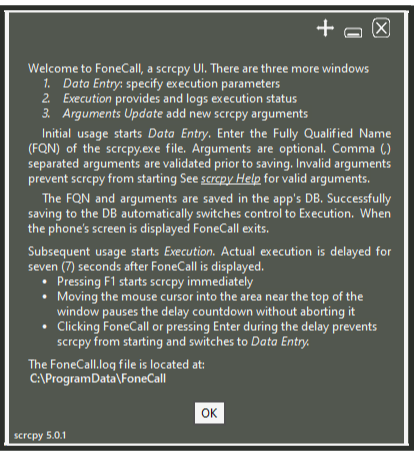
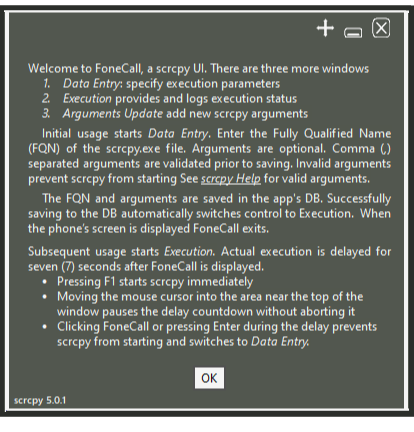
'nother tweak

diff --git a/README.md b/README.md
@@ -16,7 +16,7 @@ The tool directly resolves common Windows shortcut limitations:
 
 ## Core Features & Interface Windows
 
-FoneCall wraps your entire screen-mirroring workflow into a streamlined graphical workflow. It provides a clean graphical user interface to launch scrcpy with execution arguments directly from your Start Menu or Taskbar while hiding the background command window. During execution, FoneCall dislays an logs scrcpy startup status.
+FoneCall wraps your entire screen-mirroring workflow into a streamlined graphical workflow. It provides a clean graphical user interface to launch scrcpy with execution arguments directly from your Start Menu or Taskbar while hiding the background command window. During execution, FoneCall displays and logs scrcpy startup status.
 
 The tool is designed to be intuitive and user-friendly, making it easy for users to configure and launch scrcpy without needing to interact with command-line interfaces. When your phone's screen is displayed on your computer, FoneCall automatically exits, leaving only the mirrored phone screen visible and active.
 
@@ -29,12 +29,12 @@ Data Entry captures execution parameters which are saved in an embedded SQLite d
 ![Data Entry captures execution parameters which are saved in an embedded SQLite DB. The scrcpy.exe file location is verified and Arguments are validated prior to saving.](/assets/images/DataEntry.png)
 
 ### zcrcpy Execution Window
-Execution starts scrcpy and provides & logs execution status. In the initial launch of FoneCall after installation Execution is triggered by successfully saving the execution parameters to the DB. In subsequent launches Execution is the initial window if valid execution parameters are in the DB.  If the parameters are missing or invalid, the user is returned to the Data Entry window to correct the issue.
+Execution starts scrcpy and displays & logs execution status. In the initial launch of FoneCall after installation Execution is triggered by successfully saving the execution parameters to the DB. In subsequent launches Execution is the initial window if valid execution parameters are in the DB.  If the parameters are missing or invalid, the user is returned to the *`Data Entry`* window to correct the issue.
 
 There is a seven second delay between the launch of FoneCall and the start of scrcpy. During the delay, the user can:
-*   start  scrcpy immediately by pressing the F1 key.
-*   pause the countdown by moving the  mouse cursor near the top of the FoneCall window.
-*   cancel the execution and switch to *`Data Entry`* by clicking FoneCall or pressing the Enter key.
+*   start  scrcpy immediately
+*   pause the countdown
+*   cancel the execution and switch to *`Data Entry`*
 
 When the phone is displayed on the computer screen FoneCall exits.  If an error occurs, the user is returned to the *`Data Entry`* window to correct the issue.  
 ![Execution starts scrcpy and provides & logs execution status. This is the initial window after execution parameters have been saved When the phone is displayed on the computer screen FoneCall exits.  If an error occurs, the user is returned to the Data Entry window to correct the issue.](/assets/images/execution.png)
